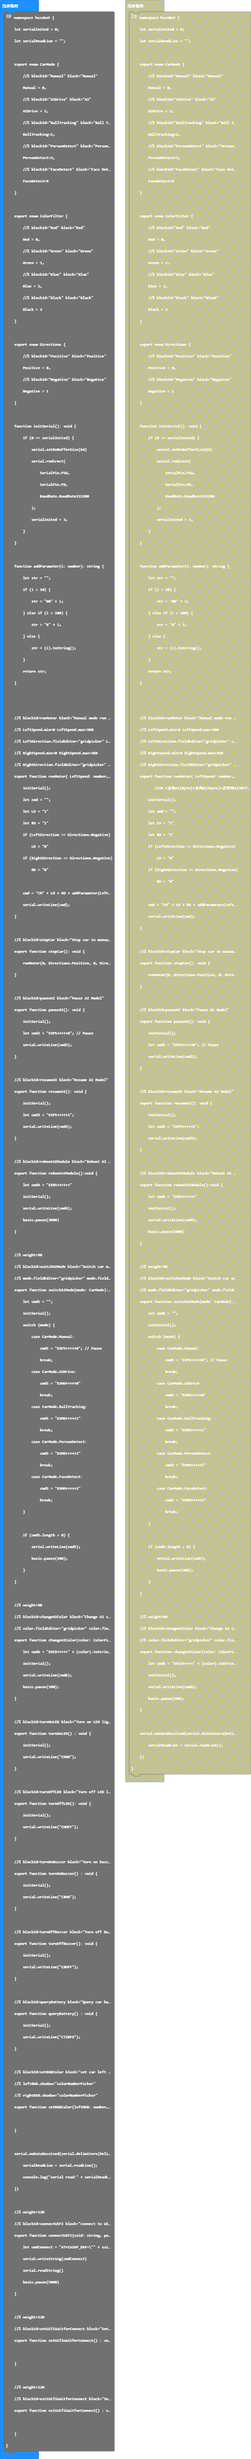
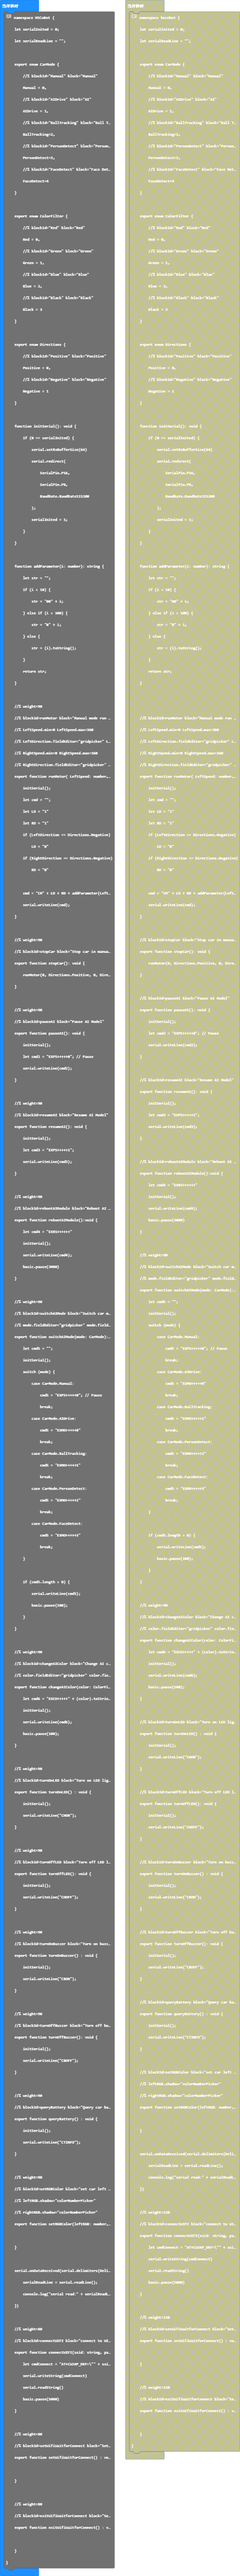
Update main.blocks, main.ts

diff --git a/main.ts b/main.ts
@@ -1,5 +1,5 @@
-// % weight=10 color=#1E90FF icon="\uf136"
-namespace hscobot {
+//% weight=10 color=#1E90FF icon="\uf136"
+namespace HSCoBot {
     let serialInited = 0;
     let serialReadLine = "";
     
@@ -58,7 +58,7 @@ namespace hscobot {
         return str;
     }
 
-   
+    //% weight=90
     //% blockId=runMotor block="Manual mode run motor at left speed=%LeftSpeed direction=%LeftDirection right speed=%RightSpeed direction=%RightDirection"
     //% LeftSpeed.min=0 LeftSpeed.max=360
     //% LeftDirection.fieldEditor="gridpicker" LeftDirection.fieldOptions.columns=1
@@ -78,11 +78,13 @@ namespace hscobot {
         serial.writeLine(cmd);
     }
 
+    //% weight=90
     //% blockId=stopCar block="Stop car in manual mode"
     export function stopCar(): void {
         runMotor(0, Directions.Positive, 0, Directions.Positive);
     }
 
+    //% weight=90
     //% blockId=pauseAI block="Pause AI Model"
     export function pauseAI(): void {
         initSerial();
@@ -90,6 +92,7 @@ namespace hscobot {
         serial.writeLine(cmd2);
     }
 
+    //% weight=90
     //% blockId=resumeAI block="Resume AI Model"
     export function resumeAI(): void {
         initSerial();
@@ -97,6 +100,7 @@ namespace hscobot {
         serial.writeLine(cmd3);
     }
 
+    //% weight=90
     //% blockId=rebootAIModule block="Reboot AI module"
     export function rebootAIModule():void {
         let cmd4 = "EXRS++++++"
@@ -145,41 +149,48 @@ namespace hscobot {
         basic.pause(100);
     }
 
+    //% weight=90
     //% blockId=turnOnLED block="Turn on LED lights"
     export function turnOnLED() : void {
         initSerial();
         serial.writeLine("CHON");
     }
     
+    //% weight=90
     //% blockId=turnOffLED block="Turn off LED lights"
     export function turnOffLED(): void {
         initSerial();
         serial.writeLine("CHOFF");
     }
 
+    //% weight=90
     //% blockId=turnOnBuzzer block="Turn on buzzer"
     export function turnOnBuzzer() : void {
         initSerial();
         serial.writeLine("CBON");
     }
 
+    //% weight=90
     //% blockId=turnOffBuzzer block="Turn off buzzer"
     export function turnOffBuzzer(): void {
         initSerial();
         serial.writeLine("CBOFF");
     }
 
+    //% weight=90
     //% blockId=queryBattery block="Query car battery"
     export function queryBattery() : void {
         initSerial();
         serial.writeLine("CTINFO");
     }
 
+    //% weight=90
     //% blockId=setRGBColor block="set car left RGB light=%leftRGB right RGB=%rightRGB"
     //% leftRGB.shadow="colorNumberPicker"
     //% rightRGB.shadow="colorNumberPicker"
     export function setRGBColor(leftRGB: number, rightRGB: number) : void {
-
+        console.log("leftRGB="+leftRGB+" rightRGB="+rightRGB)
+        
     }
 
     serial.onDataReceived(serial.delimiters(Delimiters.NewLine), function () {
@@ -187,7 +198,7 @@ namespace hscobot {
         console.log("serial read:" + serialReadLine)
     })
 
-    //% weight=120
+    //% weight=80
     //% blockId=connectWIFI block="connect to WIFI, ssid=%ssid password=%pin"
     export function connectWIFI(ssid: string, password: string) : void {
         let cmdConnect = "AT+CWJAP_DEF=\"" + ssid + "\",\"" + password + "\""
@@ -196,13 +207,13 @@ namespace hscobot {
         basic.pause(5000)
     }
 
-    //% weight=120
+    //% weight=80
     //% blockId=setWifiWaitforConnect block="Set WIFI enter wait for connect mode"
     export function setWifiWaitforConnect() : void {
 
     }
 
-    //% weight=120
+    //% weight=80
     //% blockId=exitWifiWaitforConnect block="Set WIFI exit wait for connect mode"
     export function exitWifiWaitforConnect() : void {
 
